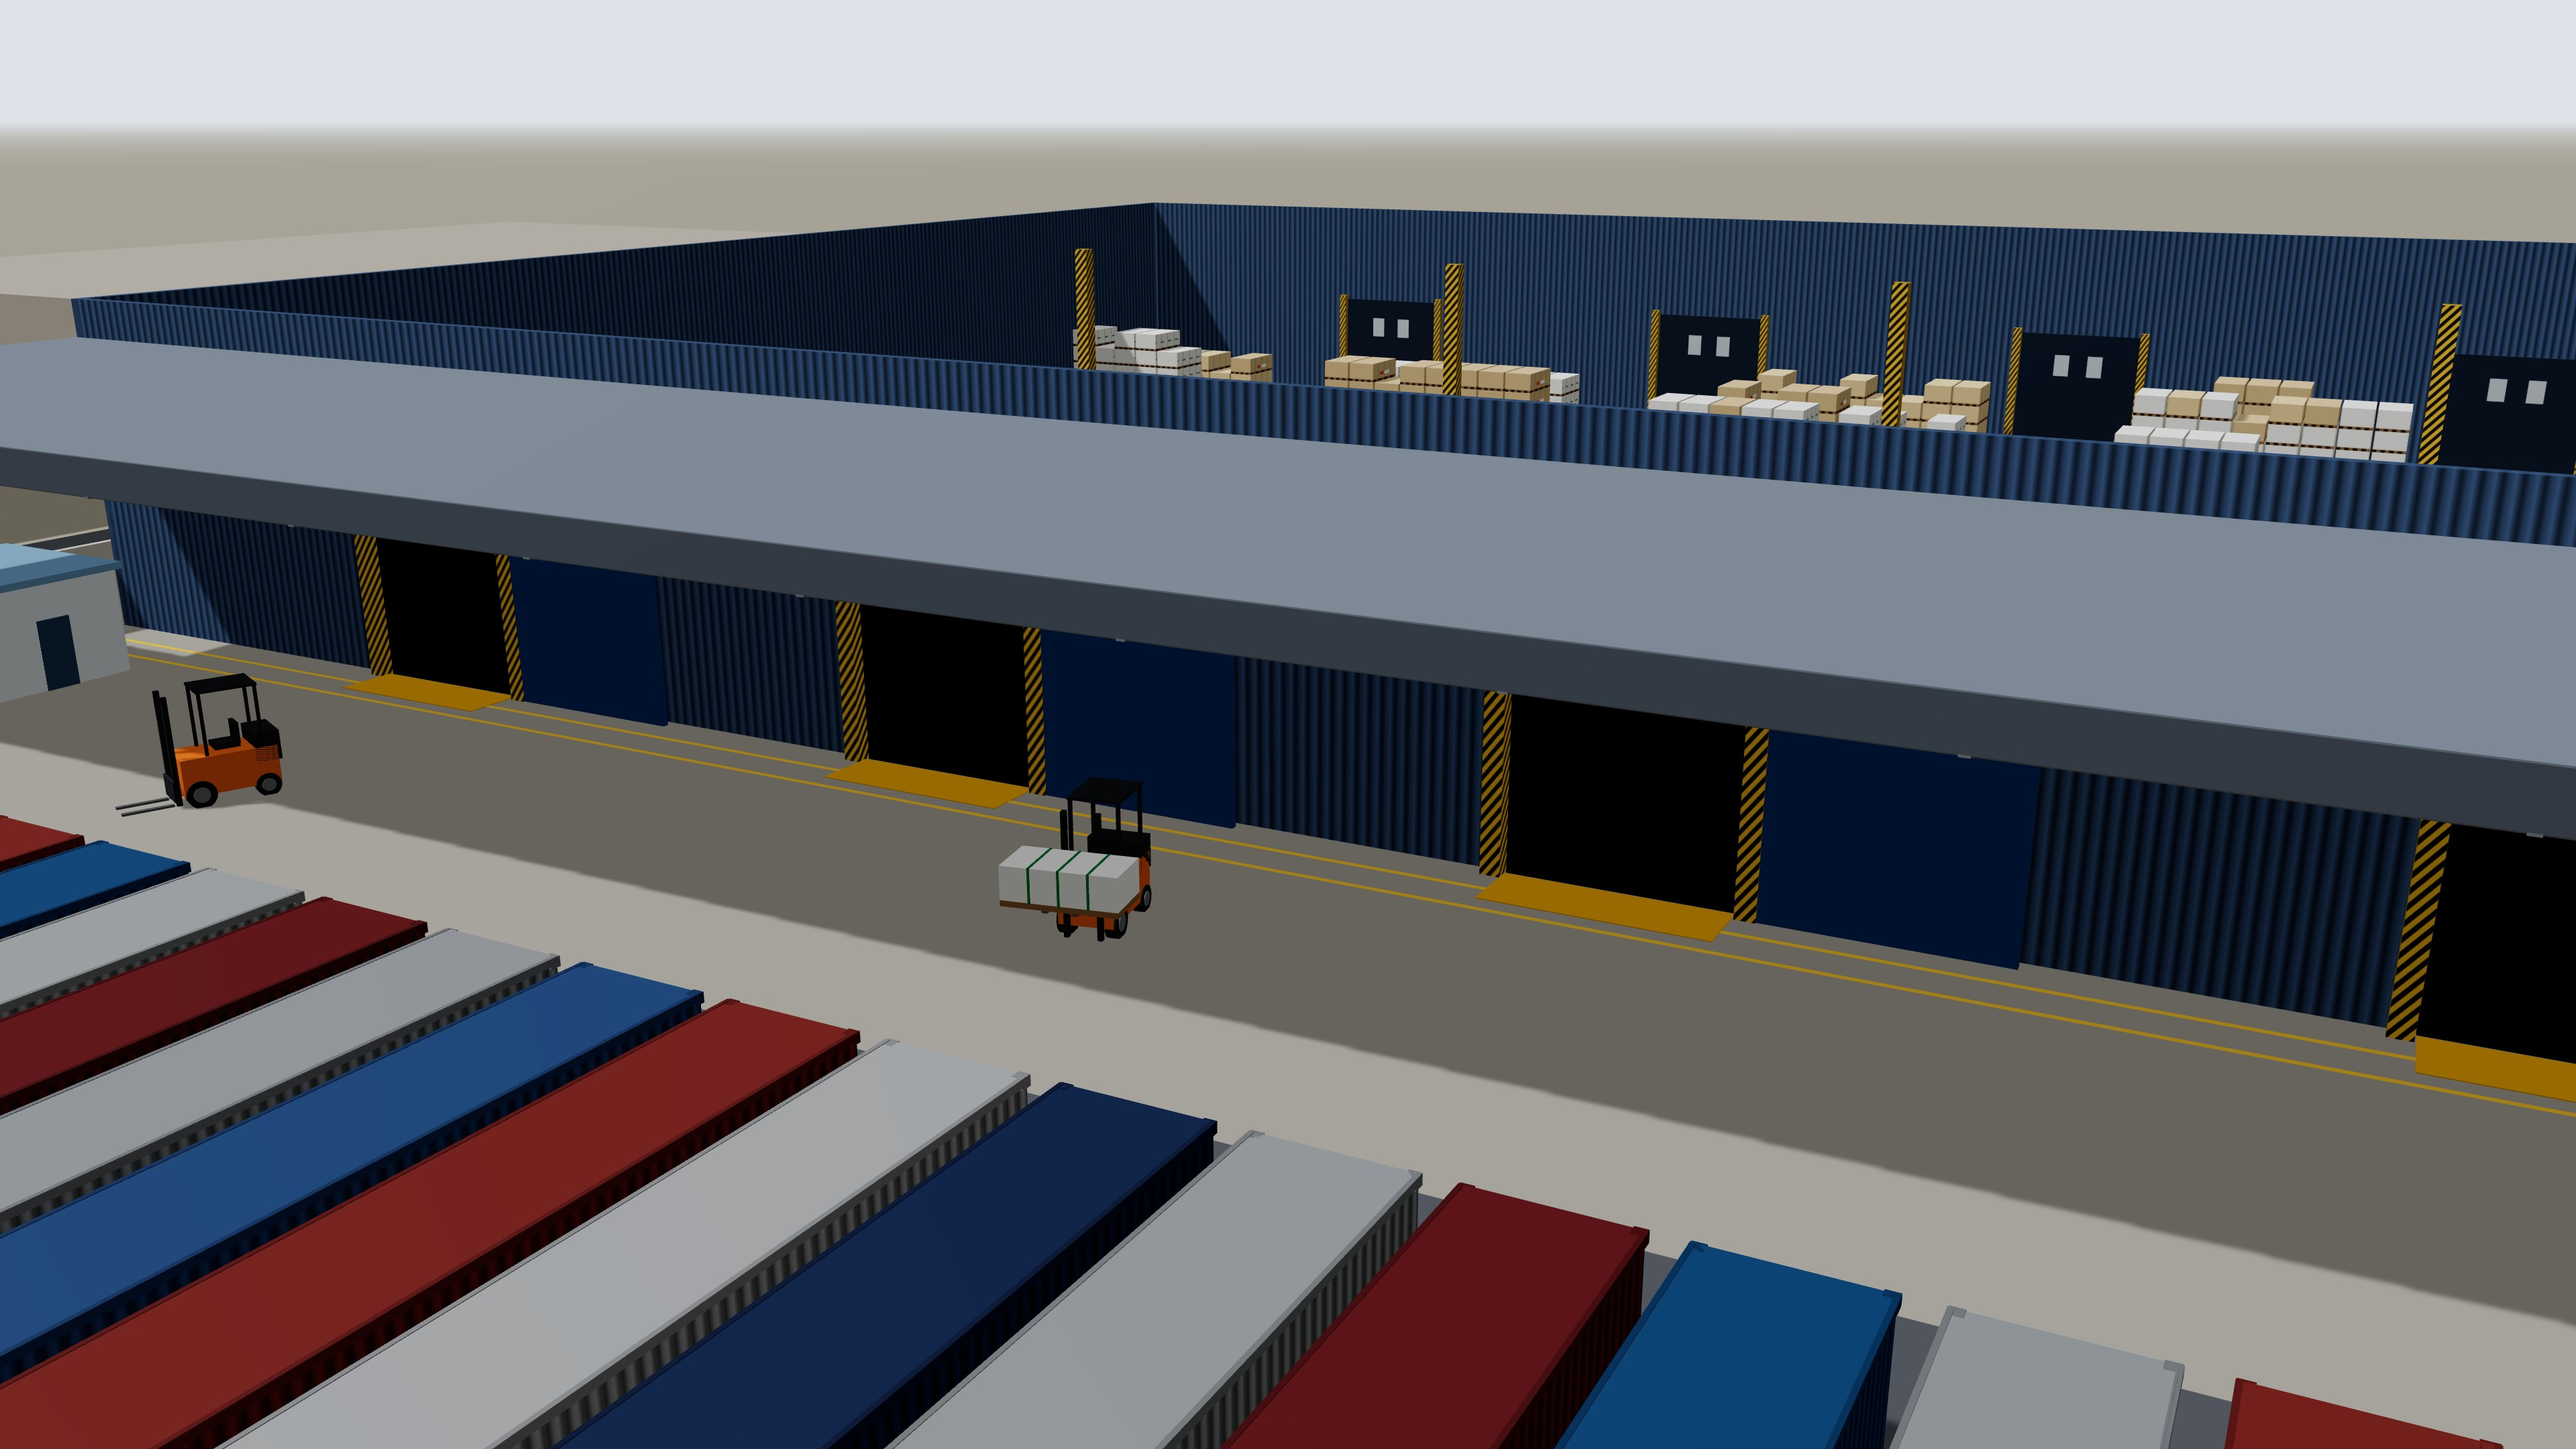
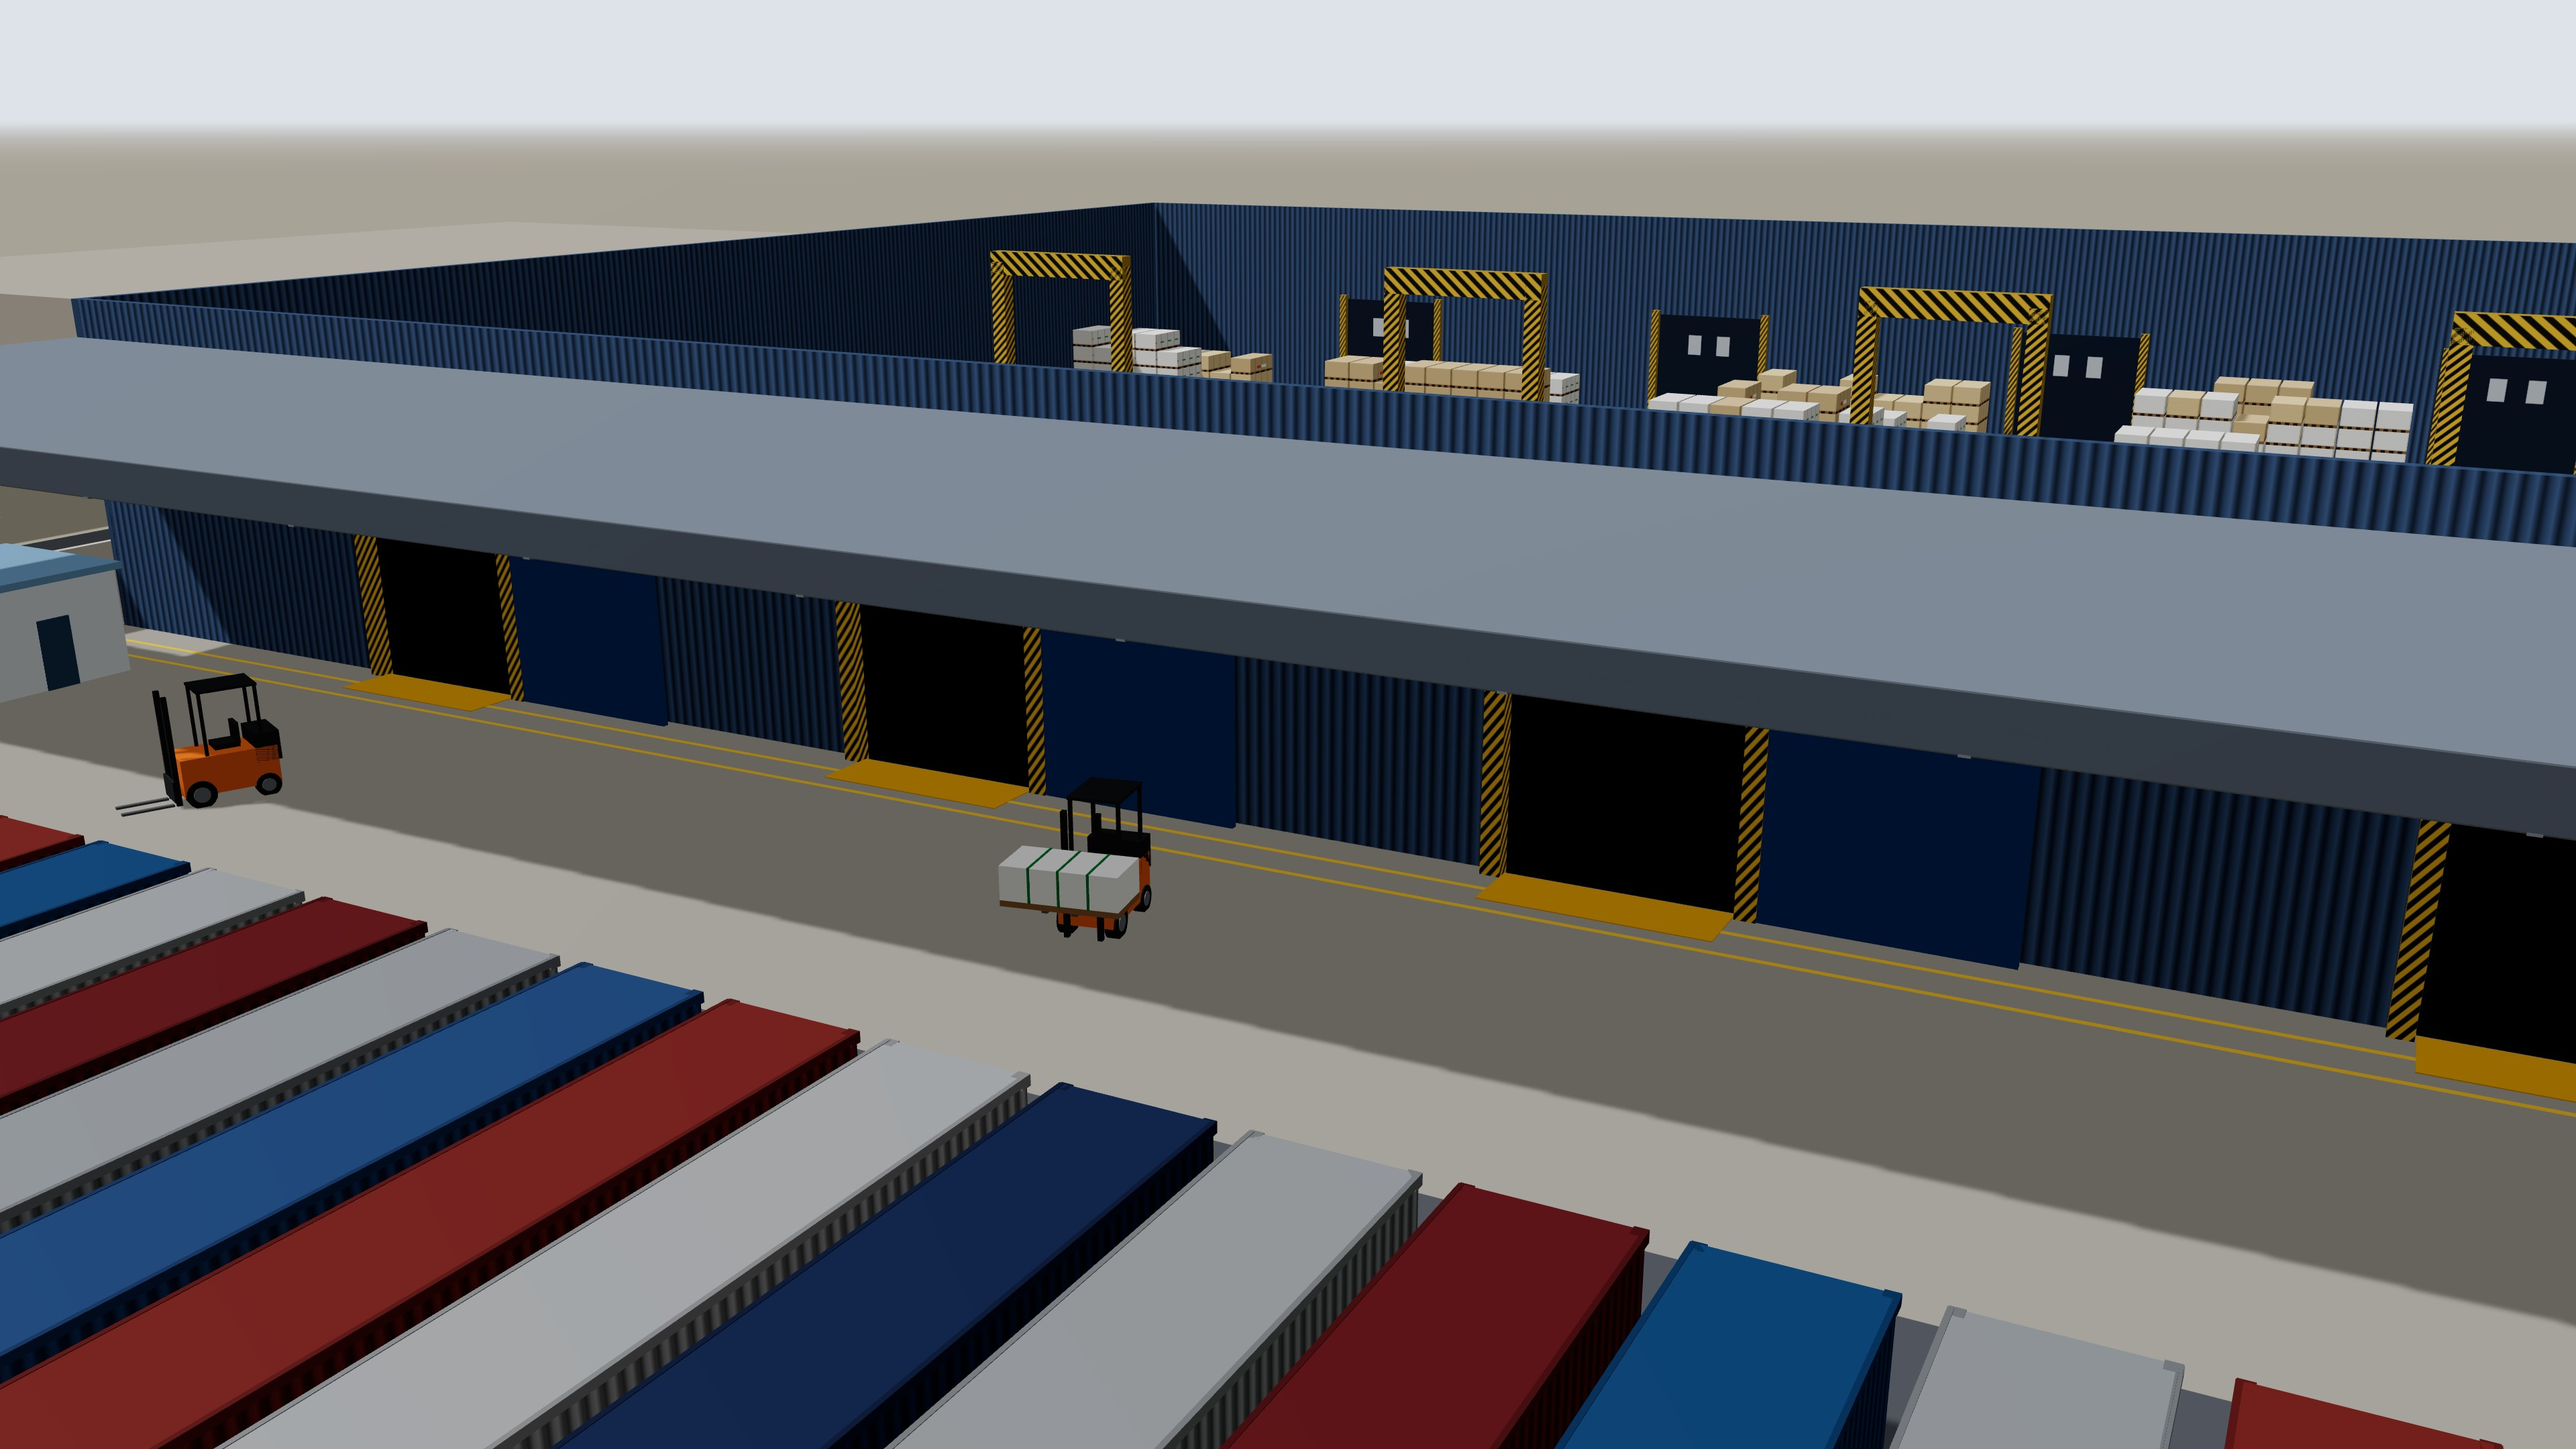
Pilares del centro: dos por pasillo unidos por una viga
Como en las fotos: un pórtico por pasillo a mitad de la bodega, con
franjas amarillas y negras, protección en la base, señal y extintor.

Claude-Session: https://claude.ai/code/session_013qYt4wV63U82gmHjwDRceP

diff --git a/index.html b/index.html
@@ -257,7 +257,7 @@ const R = {
 };
 const ZONES = {
   bodega:  { name: 'Bodega principal', dims: '93,8 × 61,7 m', area: 5787,   color: '#55698a',
-             note: 'Muros de acero corrugado azul. 5 portones correderos hacia el alero y 5 traseros (1 a 4 a la bodega pequeña, 5 al patio trasero). Columnas pintadas con franjas amarillas y negras. Altura supuesta: 10 m al alero y 12,5 m en la cumbrera.' },
+             note: 'Muros de acero corrugado azul. 5 portones correderos hacia el alero y 5 traseros (1 a 4 a la bodega pequeña, 5 al patio trasero). Al centro, dos pilares por pasillo, uno frente al otro, unidos por una viga y pintados con franjas amarillas y negras. Altura supuesta: 10 m al alero y 12,5 m en la cumbrera.' },
   alero:   { name: 'Alero',            dims: '93,8 × 13,3 m', area: 1247,   color: '#8592a0',
              note: 'Cubierta en voladizo, sin pilares, sobre los 5 portones.' },
   peq:     { name: 'Bodega pequeña',   dims: '62,5 × 8 m',    area: 506.25, color: '#a3998a',
@@ -530,9 +530,22 @@ const wallMats = [];
     label(site, `Portón trasero ${i + 1}`, 'lbl tag', x, 6.4, B.z1 + 0.3);
     [-1, 1].forEach(sd => box(site, 0.45, 5.6, 0.45, null, x + sd * 2.75, 2.8, B.z1 + 0.15, { material: jambM }));
   });
-  // one row of columns across the middle of the warehouse (Cervantes → Macaya), hazard-striped
-  const colM = hazard(10);
-  for (let i = 1; i < 6; i++) box(site, 0.5, H, 0.5, null, B.x0 + i * (bw / 6), H / 2, bcz, { material: colM });
+  // columns at mid-depth: two per aisle, facing each other across the aisle, joined by a beam (portal), hazard-striped
+  const colM = hazard(9.4), beamM = (() => { const tx = hazardTex.clone(); tx.needsUpdate = true; tx.repeat.set(1, 6); tx.rotation = Math.PI / 2; return new THREE.MeshStandardMaterial({ map: tx, roughness: 0.7 }); })();
+  const sideM2 = mat('#d6362b'), signM = mat('#ffffff');
+  'ABCDE'.split('').forEach((c, i) => {
+    const xl = LOCS[c + '-1'].x1 + 0.35, xr = LOCS['BCDEF'[i] + '-1'].x0 - 0.35, xm = (xl + xr) / 2;
+    [xl, xr].forEach((x, k) => {
+      box(site, 0.6, 9.4, 0.6, null, x, 4.7, bcz, { material: colM });
+      box(site, 1.3, 0.35, 1.0, null, x, 0.35, bcz, { material: jambM });                         // base bumper
+      const out = k === 0 ? 1 : -1;                                                            // face toward the aisle
+      box(site, 0.05, 0.7, 0.55, null, x + out * 0.33, 3.6, bcz, { material: sideM2, cast: false }); // extinguisher sign
+      box(site, 0.06, 0.32, 0.3, null, x + out * 0.36, 3.6, bcz, { material: signM, cast: false });
+      const ext = new THREE.Mesh(new THREE.CylinderGeometry(0.11, 0.11, 0.6, 12), sideM2); ext.position.set(x + out * 0.45, 1.1, bcz - 0.15); site.add(ext);
+    });
+    box(site, xr - xl + 0.6, 0.9, 0.6, null, xm, 9.35, bcz, { material: beamM });               // portal beam
+    for (let x = xl + 0.5; x < xr - 0.5; x += 1.0) box(site, 0.55, 0.02, 0.18, '#f2c230', x, 0.07, bcz - 0.6, { cast: false }); // dashed line
+  });
   roofG = new THREE.Group(); site.add(roofG);
   const naves = 6, nw = bw / naves, rise = 2.5, roofMat = mat('#55698a', { roughness: 0.6, metalness: 0.25 });
   const sky = mat('#eef3f8', { emissive: '#b8c8da', emissiveIntensity: 0.25, roughness: 0.3 });

diff --git a/README.md b/README.md
@@ -24,6 +24,7 @@ Renders en 4K (3840 × 2160) en la carpeta `renders/`:
 | Bodega pequeña y portones traseros | `renders/7-bodega-pequena.jpg` |
 | Garita bajo el alero | `renders/8-garita-alero.jpg` |
 | Muro del fondo con portones traseros | `renders/9-fondo.jpg` |
+| Pasillo con los pilares del centro | `renders/10-pilares.jpg` |
 
 Para generar capturas en alta resolución desde el navegador, abre la página con `#hd` al final de la dirección (sombras y resolución más altas).
 
